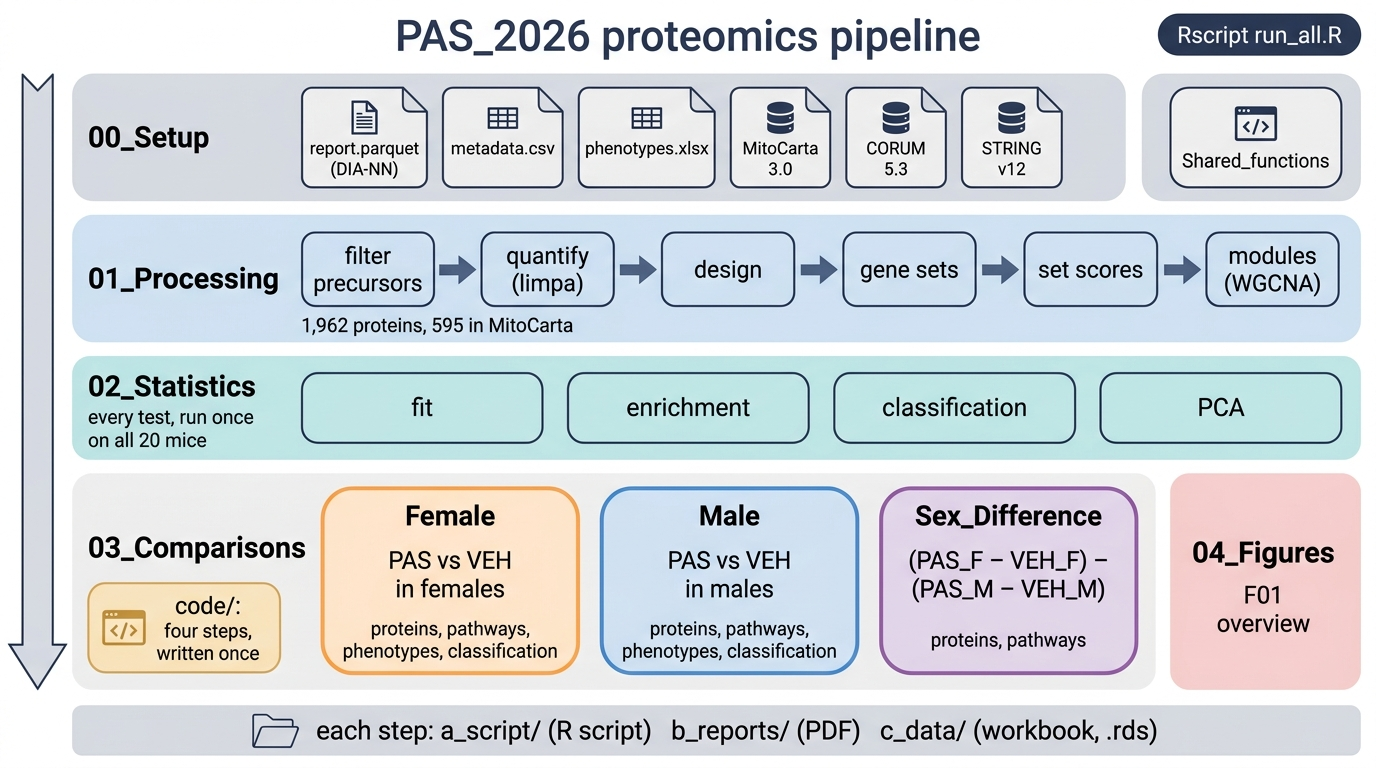
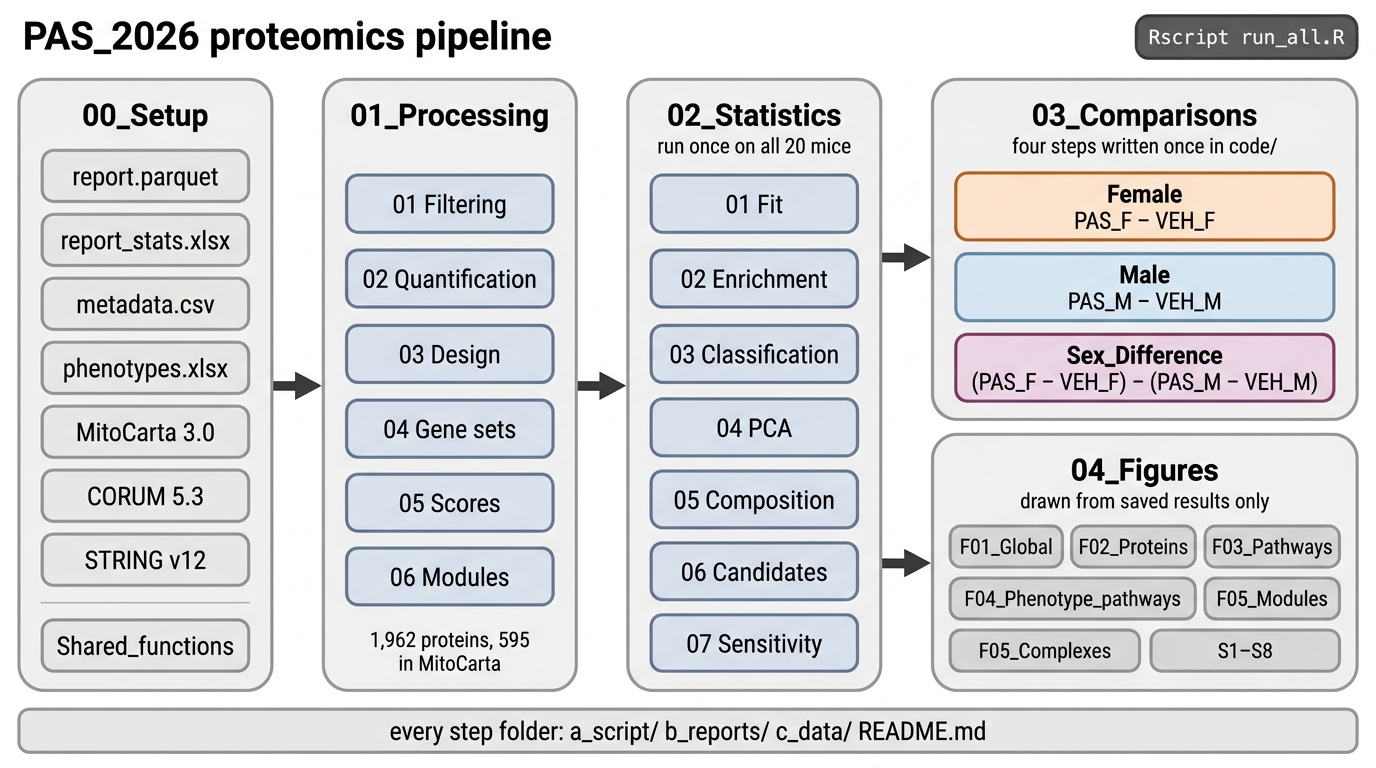
redraw the overview pictures so they stop insisting there are four statistics steps

diff --git a/00_Setup/Schematics/pipeline/SPEC.md b/00_Setup/Schematics/pipeline/SPEC.md
@@ -1,0 +1,19 @@
+STYLE (shared by all seven schematics): A flat, clean scientific schematic in the look of a BioRender figure, landscape 16:9, on a pure white background. Shapes are rounded rectangles with soft pastel fills and thin outlines in a darker shade of the same hue; no gradients, shadows, 3D effects, textures or clip-art. All text is a clean sans-serif (Helvetica or Roboto style) in dark charcoal grey; titles bold, body text regular, set large enough to read when the image is shown at half size, with generous white space and boxes aligned on a tidy grid. Neutral boxes are very light grey with a mid-grey outline. Pipeline step cards are very pale blue-grey with a slate blue-grey outline. Female is orange (pale peach fill, burnt orange outline), male is blue (pale sky-blue fill, steel blue outline), and the treatment-by-sex interaction is purple (pale lilac fill, plum outline); these three colours are used for nothing else. Arrows are thin solid charcoal lines with small filled arrowheads. There are no icons, pictograms, animals, people, logos or decorations of any kind. Every text label is spelled exactly as written below, appears exactly once, and is fully legible; there is no other text anywhere in the image.
+
+CONTENT: the whole PAS_2026 pipeline, read left to right.
+
+Title at top left, bold: "PAS_2026 proteomics pipeline". Small dark grey rounded chip with white text in the top-right corner: "Rscript run_all.R".
+
+Four columns of equal height, left to right. Each column is one large neutral rounded panel with its folder name in bold at the top; inside it a vertical stack of small rounded cards, one label per card. Columns 1 to 3 are each joined to the next by exactly one thick arrow from panel edge to panel edge.
+
+Column 1 panel, header "00_Setup". Seven small neutral cards: "report.parquet", "report_stats.xlsx", "metadata.csv", "phenotypes.xlsx", "MitoCarta 3.0", "CORUM 5.3", "STRING v12". Below them, separated by a thin line, one card: "Shared_functions".
+
+Column 2 panel, header "01_Processing". Six pale blue-grey step cards: "01 Filtering", "02 Quantification", "03 Design", "04 Gene sets", "05 Scores", "06 Modules". Under the cards, small text: "1,962 proteins, 595 in MitoCarta".
+
+Column 3 panel, header "02_Statistics", with the small subtitle "run once on all 20 mice". Seven pale blue-grey step cards: "01 Fit", "02 Enrichment", "03 Classification", "04 PCA", "05 Composition", "06 Candidates", "07 Sensitivity".
+
+Column 4 is split into two panels stacked one above the other, each reached by its own arrow from the column 3 panel (two arrows in total leave column 3).
+- Upper panel, header "03_Comparisons", small subtitle "four steps written once in code/". Three cards side by side or stacked: an orange card with bold "Female" and below it "PAS_F − VEH_F"; a blue card with bold "Male" and below it "PAS_M − VEH_M"; a purple card with bold "Sex_Difference" and below it "(PAS_F − VEH_F) − (PAS_M − VEH_M)". Group names are written with plain underscores, never subscripts.
+- Lower panel, header "04_Figures", small subtitle "drawn from saved results only". Seven small neutral cards in two rows: "F01_Global", "F02_Proteins", "F03_Pathways", "F04_Phenotype_pathways", "F05_Modules", "F05_Complexes", "S1–S8".
+
+A full-width very light grey bar along the bottom with the text: "every step folder:  a_script/   b_reports/   c_data/   README.md".

diff --git a/00_Setup/Schematics/statistics/SPEC.md b/00_Setup/Schematics/statistics/SPEC.md
@@ -1,0 +1,24 @@
+STYLE (shared by all seven schematics): A flat, clean scientific schematic in the look of a BioRender figure, landscape 16:9, on a pure white background. Shapes are rounded rectangles with soft pastel fills and thin outlines in a darker shade of the same hue; no gradients, shadows, 3D effects, textures or clip-art. All text is a clean sans-serif (Helvetica or Roboto style) in dark charcoal grey; titles bold, body text regular, set large enough to read when the image is shown at half size, with generous white space and boxes aligned on a tidy grid. Neutral boxes are very light grey with a mid-grey outline. Pipeline step cards are very pale blue-grey with a slate blue-grey outline. Female is orange (pale peach fill, burnt orange outline), male is blue (pale sky-blue fill, steel blue outline), and the treatment-by-sex interaction is purple (pale lilac fill, plum outline); these three colours are used for nothing else. Arrows are thin solid charcoal lines with small filled arrowheads. There are no icons, pictograms, animals, people, logos or decorations of any kind. Every text label is spelled exactly as written below, appears exactly once, and is fully legible; there is no other text anywhere in the image.
+
+CONTENT: the seven steps of 02_Statistics.
+
+Title at top left, bold: "02_Statistics: every model and test, run once on all 20 mice".
+
+Left edge: one small neutral card "01_Processing" with one arrow pointing right to the left edge of the large step panel.
+
+Centre (about two thirds of the width): one large neutral rounded panel, with no title, that encloses all seven step cards; arrows touch only the outer edge of this panel, never a card inside it. Inside the panel, seven pale blue-grey step cards of equal size in a grid, four in the top row and three in the bottom row, read in number order. Each card shows its two-digit number large at top left, a bold title beside it, and one to three short lines of text underneath. There are no arrows or lines between the seven cards.
+Top row:
+- "01" "Fit": "limpa dpcDE for proteins, limma for scores", "moderated F, TREAT and lfsr", "ordinary t for module eigengenes".
+- "02" "Enrichment": "fgsea on GO:BP, Reactome, Hallmark, KEGG, MitoCarta", "camera beside fgsea; pattern ORA", "fry for cross-sex signatures".
+- "03" "Classification": "single-score AUC within each sex", "against all 252 relabellings".
+- "04" "PCA": "PCA and PERMANOVA", "sex R² 0.39, treatment R² 0.04".
+Bottom row:
+- "05" "Composition": "marker-group scores of pellet contents", "PAS vs VEH within each sex".
+- "06" "Candidates": "six routes per protein", "STRING communities".
+- "07" "Sensitivity": "refits under seven changed choices".
+
+Right side (about one third of the width):
+- Top: a neutral card titled in bold "Five contrasts", listing exactly five rows, each with a small coloured dot before it: "PAS vs VEH, female" (orange dot), "PAS vs VEH, male" (blue dot), "Treatment × sex" (purple dot), "Sex in VEH (context)" (grey dot), "Sex in PAS (context)" (grey dot).
+- Below it, two small neutral cards one above the other, "03_Comparisons" and "04_Figures". Each is reached by its own short horizontal arrow that starts at the right edge of the large step panel (not at any card), at the height of that card.
+
+A full-width very light grey bar along the bottom with the text: "each step:  a_script/   b_reports/   c_data/   README.md".

diff --git a/00_Setup/Schematics/sex_difference/SPEC.md b/00_Setup/Schematics/sex_difference/SPEC.md
@@ -1,0 +1,15 @@
+STYLE (shared by all seven schematics): A flat, clean scientific schematic in the look of a BioRender figure, landscape 16:9, on a pure white background. Shapes are rounded rectangles with soft pastel fills and thin outlines in a darker shade of the same hue; no gradients, shadows, 3D effects, textures or clip-art. All text is a clean sans-serif (Helvetica or Roboto style) in dark charcoal grey; titles bold, body text regular, set large enough to read when the image is shown at half size, with generous white space and boxes aligned on a tidy grid. Neutral boxes are very light grey with a mid-grey outline. Pipeline step cards are very pale blue-grey with a slate blue-grey outline. Female is orange (pale peach fill, burnt orange outline), male is blue (pale sky-blue fill, steel blue outline), and the treatment-by-sex interaction is purple (pale lilac fill, plum outline); these three colours are used for nothing else. Arrows are thin solid charcoal lines with small filled arrowheads. There are no icons, pictograms, animals, people, logos or decorations of any kind. Every text label is spelled exactly as written below, appears exactly once, and is fully legible; there is no other text anywhere in the image.
+
+CONTENT: the Sex_Difference comparison and its two steps.
+
+Title at top left, bold: "Sex_Difference: does the PAS response differ by sex?".
+
+Left: a purple card (lavender fill, plum outline; violet, not pink) titled in bold "contrast", with the line "(PAS_F − VEH_F) − (PAS_M − VEH_M)" on one line below the title, written with plain underscores and no subscripts, and under it the small line "read from 02_Statistics". One arrow runs right from this card to a thin vertical bracket that spans the left edges of the two step cards.
+
+Centre: two step cards side by side, the same size, with no arrow between them. Layout rules for the step cards: the contrast card is wide enough to hold "(PAS_F − VEH_F) − (PAS_M − VEH_M)" on one unbroken line; the step cards and the note card are tall, filling most of the height between the title and the bottom bar, and spread evenly across the width, with no large empty areas; each step card has its two-digit number on its own line and its bold title on the line below; text lines are left-aligned with even margins; a value is never split from its label across a line break (keep "(p 0.014)", "p ≤ 0.05" and "FDR ≤ 0.05" each on one line). Each card has a plum outline and a very pale lavender fill (a cool bluish lilac, the same hue as the contrast card, not pink or mauve), its two-digit number large at top left, the bold title under it, and short lines of text kept fully inside the card:
+- "01" "Proteins": "162 at p ≤ 0.05 (98 expected)" and "none at FDR ≤ 0.05".
+- "02" "Pathways": "at FDR ≤ 0.05: GO:BP 20, Reactome 6, Hallmark 3, KEGG 2, MitoCarta 11" and "muscle contraction and extracellular matrix higher in the female response".
+
+Right: one neutral light grey note card, not connected to anything, with two short lines: "phenotype interaction: capillary density only (p 0.014), in 02_Statistics/01_Fit" and "no classification step".
+
+A full-width very light grey bar with a thin mid-grey outline along the bottom with the text: "this folder:  a_script/run_comparison.R   b_reports/   c_data/   README.md".

diff --git a/00_Setup/Schematics/female/SPEC.md b/00_Setup/Schematics/female/SPEC.md
@@ -1,0 +1,15 @@
+STYLE (shared by all seven schematics): A flat, clean scientific schematic in the look of a BioRender figure, landscape 16:9, on a pure white background. Shapes are rounded rectangles with soft pastel fills and thin outlines in a darker shade of the same hue; no gradients, shadows, 3D effects, textures or clip-art. All text is a clean sans-serif (Helvetica or Roboto style) in dark charcoal grey; titles bold, body text regular, set large enough to read when the image is shown at half size, with generous white space and boxes aligned on a tidy grid. Neutral boxes are very light grey with a mid-grey outline. Pipeline step cards are very pale blue-grey with a slate blue-grey outline. Female is orange (pale peach fill, burnt orange outline), male is blue (pale sky-blue fill, steel blue outline), and the treatment-by-sex interaction is purple (pale lilac fill, plum outline); these three colours are used for nothing else. Arrows are thin solid charcoal lines with small filled arrowheads. There are no icons, pictograms, animals, people, logos or decorations of any kind. Every text label is spelled exactly as written below, appears exactly once, and is fully legible; there is no other text anywhere in the image.
+
+CONTENT: the Female comparison and its four steps.
+
+Title at top left, bold: "Female: does PAS change females?".
+
+Left: an orange card titled in bold "contrast", with the line "PAS_F − VEH_F" below the title and, under it, the small line "read from 02_Statistics". One arrow runs right from this card to a thin vertical bracket that spans the left edges of all four step cards.
+
+Centre and right: four step cards side by side in a single horizontal row (one row of four, never a two-by-two grid), all the same size, with no arrows between them. Layout rules for the step cards: the contrast card is narrow (about one sixth of the image width) so the step cards are wide; each step card has its two-digit number and its bold title together on one top line; text lines are left-aligned with even margins; a value is never split from its label across a line break (keep "p 0.13", "p ≤ 0.05" and "FDR ≤ 0.05" each on one line). Each card has an orange outline and a very pale peach fill, its two-digit number large at top left, a bold title beside it, and short lines of text kept fully inside the card:
+- "01" "Proteins": "177 at p ≤ 0.05 (98 expected)" and "3 at FDR ≤ 0.05".
+- "02" "Pathways": "at FDR ≤ 0.05: GO:BP 10, Hallmark 1, MitoCarta 2" and "muscle contraction up, cell cycle down".
+- "03" "Phenotypes": "capillary density +138%", "CSA +22%, satellite cells +47%" and "conductance unchanged".
+- "04" "Classification": "perfect separation of PAS and VEH:", "16 pathway scores (null median 4, p 0.13)" and "1 of 8 modules (null median 0, p 0.063)".
+
+A full-width very light grey bar along the bottom with the text: "this folder:  a_script/run_comparison.R   b_reports/   c_data/   README.md".

diff --git a/00_Setup/Schematics/statistics/EVIDENCE.md b/00_Setup/Schematics/statistics/EVIDENCE.md
@@ -1,0 +1,22 @@
+# Evidence: statistics
+
+Read 2026-10-16 after the coordinator's rerun of run_all.R.
+
+| Drawn element | Value | Source |
+|---|---|---|
+| Seven steps in number order | 01_Fit ... 07_Sensitivity | `run_all.R` `statistics`; `02_Statistics/README.md` |
+| No arrows between cards | not a chain: 02-07 read 01's fit.rds (and 05 reads proteins.rds; 06 reads enrichment and modules; 07 reads fit and processing files) | each step README "Reads" row |
+| 01: limpa dpcDE for proteins, limma for scores | | `01_Fit/README.md` Proteins, Scores and eigengenes |
+| 01: moderated F, TREAT and lfsr | sheet `protein_ftest` (F_stat, P.Value); `protein_contrasts` columns `treat_p`, `treat_fdr`, `logFC_shrunk`, `lfsr` | `02_Statistics/01_Fit/c_data/01_fit.xlsx` |
+| 01: ordinary t for module eigengenes | module rows of `score_contrasts` have df = 15.0 (residual df, no prior df); other levels 18.6 or 19.8 | `02_Statistics/01_Fit/c_data/fit.rds` `$score_contrasts`, `count(level, df)` |
+| 02: fgsea on GO:BP, Reactome, Hallmark, KEGG, MitoCarta | collections in sheet `summary` | `02_Statistics/02_Enrichment/c_data/02_enrichment.xlsx`, `summary` |
+| 02: camera beside fgsea | columns `camera_p`, `camera_fdr` in sheet `fgsea`; script comment "camera is unweighted" (02_enrichment.R line 202) | `02_enrichment.xlsx` `fgsea`; `02_enrichment.R` |
+| 02: pattern ORA | sheet `pattern_ora` | `02_enrichment.xlsx` |
+| 02: fry for cross-sex signatures | sheet `signatures` (fry direction, p, mixed p) | `02_enrichment.xlsx` |
+| 03: single-score AUC within each sex; 252 relabellings | `perfect$relabellings` = 252 for every row | `02_Statistics/03_Classification/c_data/classification.rds` `$perfect` |
+| 04: sex R² 0.39, treatment R² 0.04 | sex r2 0.3936, treatment r2 0.0380 | `02_Statistics/04_PCA/c_data/04_pca.xlsx`, sheet `permanova` |
+| 05: marker-group scores of pellet contents; PAS vs VEH within each sex | groups SR, ER, myofibril, nerve, red cell, vessel, haemoglobin, MitoCarta share, per sex, Welch p | `02_Statistics/05_Composition/c_data/05_composition.xlsx`, sheet `tests` |
+| 06: six routes per protein; STRING communities | route columns statistics, every_mouse, both_sexes, phenotype, hub, pathway; column `community` | `02_Statistics/06_Candidates/c_data/06_candidates.xlsx`, sheets `summary`, `candidates` |
+| 07: refits under seven changed choices | variants besides baseline: slope 0.5, slope 1.0, run depth instead of sv1, no adjustment, no sample weights, without PAS_M1, pellet share covariate | `02_Statistics/07_Sensitivity/c_data/07_sensitivity.xlsx`, sheet `counts`, `unique(variant)` |
+| Five contrasts and context role | PAS_vs_VEH_female, PAS_vs_VEH_male, treatment_by_sex, sex_in_VEH (context), sex_in_PAS (context) | `01_Processing/03_Design/c_data/03_design.xlsx`, sheets `contrasts`, `comparisons` |
+| Readers 03_Comparisons and 04_Figures | | `README.md` data-flow paragraph; `run_all.R` |

diff --git a/00_Setup/Schematics/processing/EVIDENCE.md b/00_Setup/Schematics/processing/EVIDENCE.md
@@ -1,0 +1,22 @@
+# Evidence: processing
+
+Read 2026-10-16 after the coordinator's rerun of run_all.R.
+
+| Drawn element | Value | Source |
+|---|---|---|
+| Six steps, in number order | 01 Filtering ... 06 Modules | `run_all.R` `processing`; `01_Processing/README.md` table |
+| No arrows between cards | steps do not form a chain: 04 reads 02, not 03; 05 reads 02 and 04; 06 reads 01, 02 and 04 | each step README "Reads" row |
+| Input card "00_Setup/Input" | report.parquet, metadata.csv, report_stats.xlsx, MitoCarta, CORUM, STRING | step READMEs, "Reads" rows |
+| 01: q ≤ 0.01; contaminants and shared peptides removed | | `01_Processing/01_Filtering/README.md` Method |
+| 01: 21,600 precursors, 2,094 protein groups | precursors 21600, protein_groups 2094 | `01_Processing/01_Filtering/c_data/01_filtering.xlsx`, sheet `filter_log`, row "contaminants removed" |
+| 02: limpa detection-probability curve | dpcQuant | `02_Quantification/README.md` Method; `02_quantification.xlsx` sheet `dpc_parameters` |
+| 02: 1,962 proteins, 595 in MitoCarta | 1962 x 20; mito 595 x 20 | `01_Processing/02_Quantification/c_data/proteins.rds`: `dim($proteins)`, `dim($E_norm$mito)` |
+| 03: four group means and one surrogate variable; five contrasts | columns PAS_F, PAS_M, VEH_F, VEH_M, sv1; 5 contrasts | `01_Processing/03_Design/c_data/03_design.xlsx`, sheets `design`, `contrasts` |
+| 04: GO:BP, Reactome, Hallmark, KEGG LEGACY, MitoCarta; GO Slim compartments, CORUM, STRING clusters | collections with tested sets: Compartments 25, CORUM 98, GO:BP 755, Hallmark 34, KEGG 33, MitoCarta 44, Reactome 140, STRING 7 | `01_Processing/04_Gene_Sets/c_data/04_gene_sets.xlsx`, sheet `catalog`, `table(collection, tested)`; KEGG LEGACY wording from `04_Gene_Sets/README.md` |
+| 05: 1,110 scores per mouse | 1110 rows (full 1066, mito 44): CORUM 98, GO:BP 755, Hallmark 34, KEGG 33, MitoCarta 44, Reactome 139, STRING 7 | `01_Processing/05_Scores/c_data/05_scores.xlsx`, sheet `catalog` (nrow 1110) |
+| 06: WGCNA after removing sex and run depth | removeBatchEffect(batch = sex, covariates = log2 run depth) | `06_Modules/README.md` Adjustment; `06_modules.xlsx` read_me (eigengenes "from the sex- and run-depth-adjusted matrix") |
+| 06: 827 proteins, 8 modules plus grey | 827 rows; 9 module rows incl. grey (402) | `01_Processing/06_Modules/c_data/06_modules.xlsx`, sheets `modules` (827 rows), `sizes` (turquoise, blue, brown, yellow, green, red, black, pink + grey) |
+| "read by 02_Statistics" | proteins.rds, design.rds, scores.rds, modules.rds read by 02_Statistics/01_Fit | step READMEs, "Writes" rows |
+| Footer | | `01_Processing/README.md` last paragraph (04_Gene_Sets has no b_reports PDF; the footer is generic) |
+
+Note: Reactome is 140 tested in `04_gene_sets.xlsx` catalog but 139 scored in `05_scores.xlsx` catalog; the image prints no per-collection count.

diff --git a/00_Setup/Schematics/comparisons/SPEC.md b/00_Setup/Schematics/comparisons/SPEC.md
@@ -1,0 +1,23 @@
+STYLE (shared by all seven schematics): A flat, clean scientific schematic in the look of a BioRender figure, landscape 16:9, on a pure white background. Shapes are rounded rectangles with soft pastel fills and thin outlines in a darker shade of the same hue; no gradients, shadows, 3D effects, textures or clip-art. All text is a clean sans-serif (Helvetica or Roboto style) in dark charcoal grey; titles bold, body text regular, set large enough to read when the image is shown at half size, with generous white space and boxes aligned on a tidy grid. Neutral boxes are very light grey with a mid-grey outline. Pipeline step cards are very pale blue-grey with a slate blue-grey outline. Female is orange (pale peach fill, burnt orange outline), male is blue (pale sky-blue fill, steel blue outline), and the treatment-by-sex interaction is purple (pale lilac fill, plum outline); these three colours are used for nothing else. Arrows are thin solid charcoal lines with small filled arrowheads. There are no icons, pictograms, animals, people, logos or decorations of any kind. Every text label is spelled exactly as written below, appears exactly once, and is fully legible; there is no other text anywhere in the image.
+
+CONTENT: 03_Comparisons, one set of steps run for three contrasts.
+
+Title at top left, bold: "03_Comparisons: four steps written once, run for three contrasts".
+
+Three columns, left to right.
+
+Left column: two small neutral cards stacked. Upper card: bold "02_Statistics" with the small line "fit, enrichment, classification". Lower card: bold "01_Processing" with the small line "gene sets". One arrow from each card points right into the centre card (two arrows in total).
+
+Centre column: one large pale blue-grey card titled in bold "code/", listing exactly four rows, each row a two-digit number in bold followed by a bold step name and a short plain description:
+"01  proteins: contrast, tiers by FDR, Π and p"
+"02  pathways: fgsea beside camera and singscore"
+"03  phenotypes: effects and associations"
+"04  classification: single-score AUC, 252 relabellings"
+
+Right column: three folder cards stacked top to bottom, each reached by its own arrow from the centre card (three arrows in total). Each card has a bold name and two small lines:
+- orange card: "Female", lines "PAS_F − VEH_F" and "steps 01 to 04"
+- blue card: "Male", lines "PAS_M − VEH_M" and "steps 01 to 04"
+- purple card (lavender fill, plum outline; violet, not pink): "Sex_Difference", lines "(PAS_F − VEH_F) − (PAS_M − VEH_M)" and "steps 01 and 02"
+Group names are written with plain underscores, never subscripts. No line joins the three folder cards to one another.
+
+A full-width very light grey bar along the bottom with the text: "each folder:  a_script/run_comparison.R   b_reports/   c_data/   README.md".

diff --git a/00_Setup/Schematics/processing/SPEC.md b/00_Setup/Schematics/processing/SPEC.md
@@ -1,0 +1,21 @@
+STYLE (shared by all seven schematics): A flat, clean scientific schematic in the look of a BioRender figure, landscape 16:9, on a pure white background. Shapes are rounded rectangles with soft pastel fills and thin outlines in a darker shade of the same hue; no gradients, shadows, 3D effects, textures or clip-art. All text is a clean sans-serif (Helvetica or Roboto style) in dark charcoal grey; titles bold, body text regular, set large enough to read when the image is shown at half size, with generous white space and boxes aligned on a tidy grid. Neutral boxes are very light grey with a mid-grey outline. Pipeline step cards are very pale blue-grey with a slate blue-grey outline. Female is orange (pale peach fill, burnt orange outline), male is blue (pale sky-blue fill, steel blue outline), and the treatment-by-sex interaction is purple (pale lilac fill, plum outline); these three colours are used for nothing else. Arrows are thin solid charcoal lines with small filled arrowheads. There are no icons, pictograms, animals, people, logos or decorations of any kind. Every text label is spelled exactly as written below, appears exactly once, and is fully legible; there is no other text anywhere in the image.
+
+CONTENT: the six steps of 01_Processing.
+
+Title at top left, bold: "01_Processing: DIA-NN report to proteins, gene sets and modules".
+
+Left edge: one small neutral card "00_Setup/Input" with one arrow pointing right into the step grid.
+
+Centre: six pale blue-grey step cards in a grid of two rows of three, all the same size, read in number order. Each card shows its two-digit number large at top left, a bold title beside it, and two short lines of text underneath. There are no arrows between the six cards.
+Row 1:
+- "01" "Filtering": "q ≤ 0.01; contaminants and shared peptides removed" and "21,600 precursors, 2,094 protein groups".
+- "02" "Quantification": "limpa detection-probability curve" and "1,962 proteins, 595 in MitoCarta".
+- "03" "Design": "four group means and one surrogate variable" and "five contrasts".
+Row 2:
+- "04" "Gene sets": "GO:BP, Reactome, Hallmark, KEGG LEGACY, MitoCarta" and "GO Slim compartments, CORUM, STRING clusters".
+- "05" "Scores": "singscore, one score per set per mouse" and "1,110 scores per mouse".
+- "06" "Modules": "WGCNA after removing sex and run depth" and "827 proteins, 8 modules plus grey".
+
+Right edge: one small neutral card "read by 02_Statistics", reached by one arrow from the step grid.
+
+A full-width very light grey bar along the bottom with the text: "each step:  a_script/   b_reports/   c_data/   README.md".

diff --git a/00_Setup/Schematics/male/SPEC.md b/00_Setup/Schematics/male/SPEC.md
@@ -1,0 +1,15 @@
+STYLE (shared by all seven schematics): A flat, clean scientific schematic in the look of a BioRender figure, landscape 16:9, on a pure white background. Shapes are rounded rectangles with soft pastel fills and thin outlines in a darker shade of the same hue; no gradients, shadows, 3D effects, textures or clip-art. All text is a clean sans-serif (Helvetica or Roboto style) in dark charcoal grey; titles bold, body text regular, set large enough to read when the image is shown at half size, with generous white space and boxes aligned on a tidy grid. Neutral boxes are very light grey with a mid-grey outline. Pipeline step cards are very pale blue-grey with a slate blue-grey outline. Female is orange (pale peach fill, burnt orange outline), male is blue (pale sky-blue fill, steel blue outline), and the treatment-by-sex interaction is purple (pale lilac fill, plum outline); these three colours are used for nothing else. Arrows are thin solid charcoal lines with small filled arrowheads. There are no icons, pictograms, animals, people, logos or decorations of any kind. Every text label is spelled exactly as written below, appears exactly once, and is fully legible; there is no other text anywhere in the image.
+
+CONTENT: the Male comparison and its four steps.
+
+Title at top left, bold: "Male: does PAS change males?".
+
+Left: a blue card titled in bold "contrast", with the line "PAS_M − VEH_M" below the title and, under it, the small line "read from 02_Statistics". One arrow runs right from this card to a thin vertical bracket that spans the left edges of all four step cards.
+
+Centre and right: four step cards side by side in one row, all the same size, with no arrows between them. Each card has a steel blue outline and a very pale sky-blue fill, its two-digit number large at top left, a bold title beside it, and short lines of text kept fully inside the card:
+- "01" "Proteins": "193 at p ≤ 0.05 (98 expected)" and "none at FDR ≤ 0.05".
+- "02" "Pathways": "at FDR ≤ 0.05: GO:BP 35, Hallmark 1, KEGG 5" and "actin and cytoskeleton organisation down".
+- "03" "Phenotypes": "no phenotype effect at p ≤ 0.05".
+- "04" "Classification": "perfect separation of PAS and VEH:", "5 pathway scores (null median 2, p 0.33)" and "0 of 8 modules".
+
+A full-width very light grey bar along the bottom with the text: "this folder:  a_script/run_comparison.R   b_reports/   c_data/   README.md".

diff --git a/00_Setup/Schematics/pipeline/EVIDENCE.md b/00_Setup/Schematics/pipeline/EVIDENCE.md
@@ -1,0 +1,18 @@
+# Evidence: pipeline
+
+Repo state read 2026-10-16, branch refactor/hrvlr-layout, after the coordinator's full rerun of run_all.R.
+
+| Drawn element | Source |
+|---|---|
+| Run order 01_Processing -> 02_Statistics -> 03_Comparisons -> 04_Figures; chip "Rscript run_all.R" | `run_all.R`, vectors `processing`, `statistics`, `comparisons`, `figures` |
+| 00_Setup inputs: report.parquet, report_stats.xlsx, metadata.csv, phenotypes.xlsx, MitoCarta 3.0 (`Mouse.MitoCarta3.0.xls`), CORUM 5.3 (`corum_complete.txt`), STRING v12 (`STRING_v12/`) | `ls 00_Setup/Input`; `00_Setup/Input/README.md` table. `VEH_PAS_HLI_Master Data.xlsx` is read by nothing (README), so not drawn |
+| Shared_functions | `00_Setup/Shared_functions/` (helpers.R, figures.R, comparisons.R) |
+| Six processing steps | `run_all.R` `processing`; folder names `01_Processing/0N_*` (04 Gene sets = `04_Gene_Sets`) |
+| 1,962 proteins, 595 in MitoCarta | `01_Processing/02_Quantification/c_data/proteins.rds`: `dim(proteins)` = 1962 x 20; `dim(E_norm$mito)` = 595 x 20 |
+| Seven statistics steps | `run_all.R` `statistics`; folders `02_Statistics/01_Fit` ... `07_Sensitivity` |
+| "run once on all 20 mice" | `02_Statistics/README.md` first line; 20 columns in `proteins.rds` |
+| Three comparisons and contrasts | `run_all.R` `comparisons`; `01_Processing/03_Design/c_data/03_design.xlsx` sheets `contrasts` (PAS_vs_VEH_female = PAS_F − VEH_F; PAS_vs_VEH_male = PAS_M − VEH_M; treatment_by_sex = PAS_F − PAS_M − VEH_F + VEH_M) and `comparisons` |
+| "four steps written once in code/" | `ls 03_Comparisons/code`: 01_proteins.R, 02_pathways.R, 03_phenotypes.R, 04_classification.R |
+| 04_Figures: F01_Global, F02_Proteins, F03_Pathways, F04_Phenotype_pathways, F05_Modules, F05_Complexes, S1–S8 | `run_all.R` `figures` (14 composites; S1_Processing to S8_Sensitivity) |
+| Arrows into 03_Comparisons and 04_Figures from 02_Statistics; subtitle "drawn from saved results only" | `README.md` "Data flows one way"; `04_Figures/README.md` ("Every script reads saved outputs only"). Figures also read some 01_Processing files (F02, F05_Modules, F05_Complexes, S1 read proteins.rds, precursors_filtered.rds, design.rds, gene_sets.rds or modules.rds, by grep of `04_Figures/*/a_script`), so the subtitle does not say "statistics only" |
+| Footer: a_script/, b_reports/, c_data/, README.md | `README.md` section "Every step" |

diff --git a/00_Setup/Schematics/female/EVIDENCE.md b/00_Setup/Schematics/female/EVIDENCE.md
@@ -1,0 +1,18 @@
+# Evidence: female
+
+Read 2026-10-16 after the coordinator's rerun of run_all.R. `F` = `03_Comparisons/Female/c_data/`.
+
+| Drawn element | Value in the output | Source |
+|---|---|---|
+| contrast PAS_F − VEH_F | PAS_vs_VEH_female: PAS_F 1, VEH_F −1 | `01_Processing/03_Design/c_data/03_design.xlsx`, sheet `contrasts` |
+| read from 02_Statistics | inputs fit.rds, enrichment.rds, classification.rds | `03_Comparisons/code/*.R` input blocks |
+| 177 at p ≤ 0.05 (98 expected) | full: down 95 + up 82 = 177; expected 49.90 + 48.20 = 98.1 | `F/01_proteins.xlsx`, sheet `summary`, universe full, `p_le_0.05`, `expected_by_chance`; also `02_Statistics/01_Fit/c_data/01_fit.xlsx` `contrast_summary` (177, 98.10) |
+| 3 at FDR ≤ 0.05 | full down 3 + up 0 | `F/01_proteins.xlsx`, `summary`, `fdr_le_0.05` |
+| GO:BP 10, Hallmark 1, MitoCarta 2 at FDR ≤ 0.05 | GO:BP 10, Hallmark 1, KEGG 0, Reactome 0, MitoCarta 2 | `F/02_pathways.xlsx`, sheet `summary`, `fdr_le_0.05` |
+| muscle contraction up, cell cycle down | FDR ≤ 0.05 GO:BP: muscle system process, (skeletal/striated) muscle contraction NES > 0; cell cycle (NES −1.89, padj 0.014), mitotic cell cycle NES < 0 | `F/02_pathways.xlsx`, sheet `fgsea`, `padj <= 0.05` |
+| capillary density +138% | pct_change 138.2 (p 0.0052) | `F/03_phenotypes.xlsx`, sheet `phenotype_effects` |
+| CSA +22%, satellite cells +47% | csa_mean 21.6 (p 0.0020); satellite_cells_per_fiber 47.3 (p 0.0093) | same |
+| conductance unchanged | conductance_sol_pyr p 0.45, conductance_pla_pyr p 0.30, conductance_sol_oct p 0.35 | same |
+| 16 pathway scores (null median 4, p 0.13) | observed 16, null_median 4, p 0.12698 (32/252) | `F/04_classification.xlsx`, sheet `perfect_separations`, level pathway; `02_Statistics/03_Classification/c_data/classification.rds` `$perfect` |
+| 1 of 8 modules (null median 0, p 0.063) | features 8, observed 1, null_median 0, p 0.06349 (16/252) | `F/04_classification.xlsx`, sheets `summary` and `perfect_separations`, level module |
+| Footer | c_data holds four .xlsx, no .rds | `ls 03_Comparisons/Female/c_data` |

diff --git a/00_Setup/Schematics/comparisons/EVIDENCE.md b/00_Setup/Schematics/comparisons/EVIDENCE.md
@@ -1,0 +1,15 @@
+# Evidence: comparisons
+
+Read 2026-10-16 after the coordinator's rerun of run_all.R.
+
+| Drawn element | Value | Source |
+|---|---|---|
+| Four steps written once in code/ | 01_proteins.R, 02_pathways.R, 03_phenotypes.R, 04_classification.R | `ls 03_Comparisons/code` |
+| Inputs 02_Statistics (fit, enrichment, classification) and 01_Processing (gene sets) | 01 reads fit.rds, enrichment.rds; 02 reads enrichment.rds, gene_sets.rds; 03 reads fit.rds, enrichment.rds; 04 reads classification.rds, fit.rds | `inputs <- c(...)` blocks in each `03_Comparisons/code/*.R` |
+| 01 proteins: contrast, tiers by FDR, Π and p | sheet `results` column tier; `summary` columns pi_le_0.05, fdr_le_0.05, p_le_0.05 | `03_Comparisons/Female/c_data/01_proteins.xlsx`, `read_me` and `summary` |
+| 02 pathways: fgsea beside camera and singscore | `fgsea` sheet columns NES, p, padj, score_logFC, score_p, camera_p, camera_fdr | `03_Comparisons/Female/c_data/02_pathways.xlsx`, sheet `fgsea` |
+| 03 phenotypes: effects and associations | sheets `phenotype_effects`, `protein_associations`, `score_associations` | `03_Comparisons/Female/c_data/03_phenotypes.xlsx` |
+| 04 classification: single-score AUC, 252 relabellings | `perfect_separations$relabellings` = 252 | `03_Comparisons/Female/c_data/04_classification.xlsx`, sheet `perfect_separations` |
+| Contrasts | PAS_F − VEH_F; PAS_M − VEH_M; (PAS_F − VEH_F) − (PAS_M − VEH_M) | `01_Processing/03_Design/c_data/03_design.xlsx`, sheet `contrasts` |
+| Steps run per folder | Female and Male: 01-04 workbooks; Sex_Difference: 01_proteins.xlsx, 02_pathways.xlsx only | `ls 03_Comparisons/*/c_data` |
+| Footer (no .rds) | each c_data holds only <step>.xlsx; no code/ script calls saveRDS | `ls 03_Comparisons/*/c_data`; `grep saveRDS 03_Comparisons/code/*.R` (no hit) |
